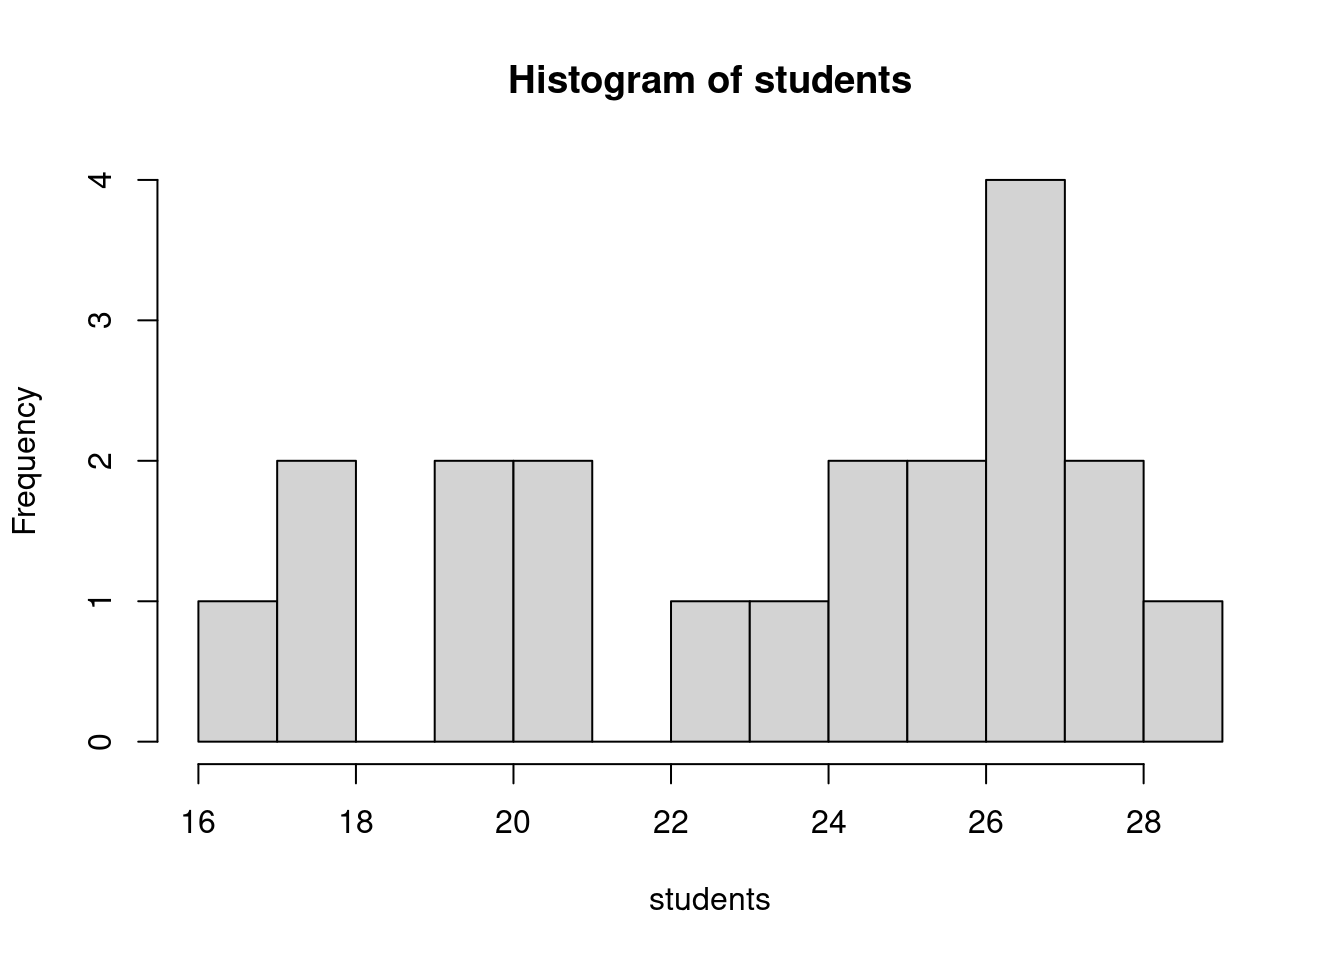
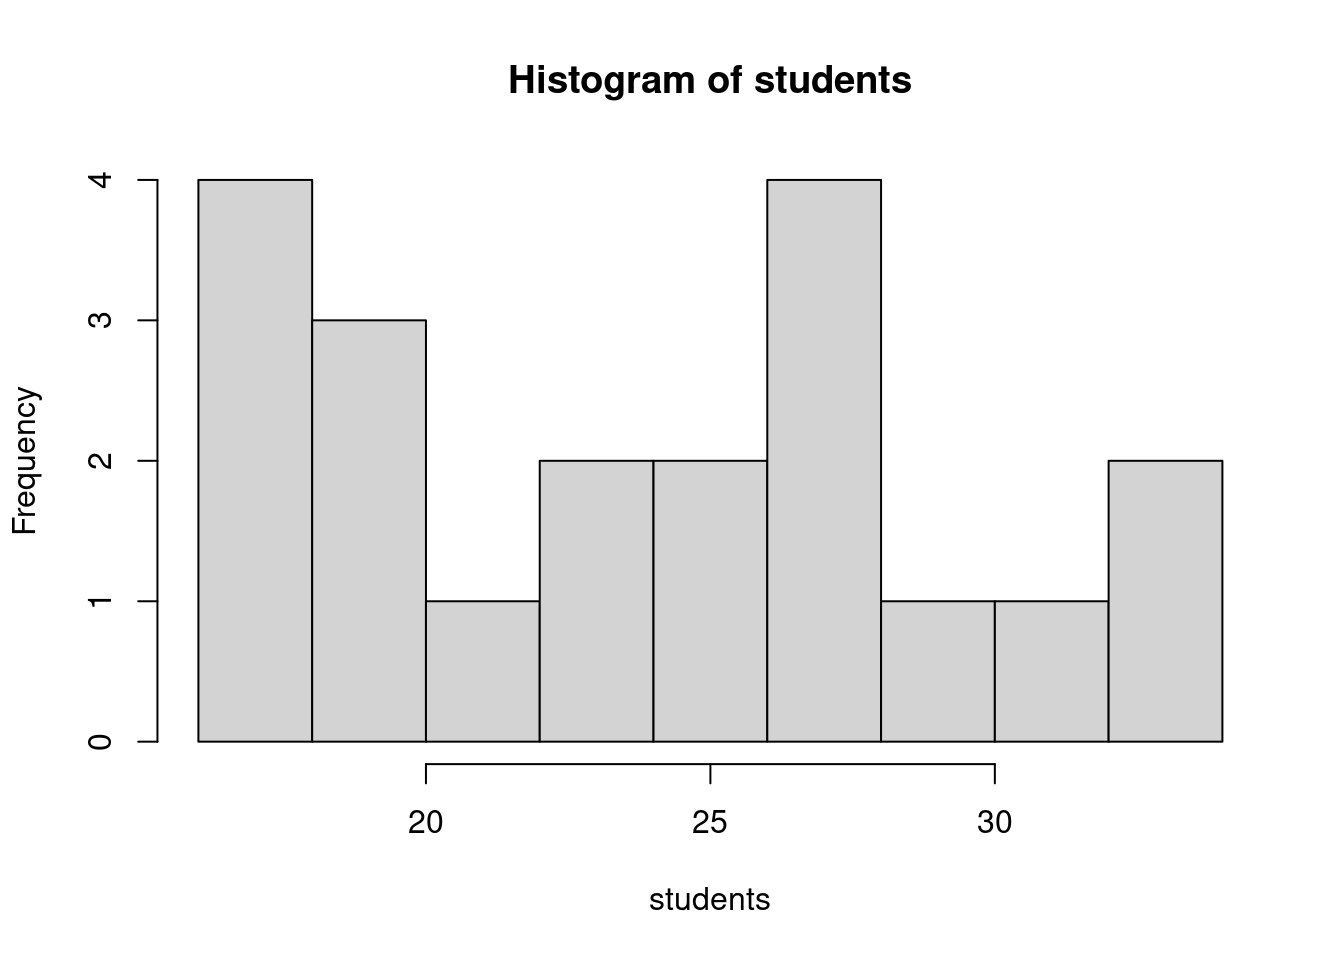
Updated with credit for images

diff --git a/_book/what-is-statistics.html b/_book/what-is-statistics.html
@@ -281,7 +281,7 @@ While I am collecting this data you can reflect on this funny musing. I grew up 
 <span id="cb3-5"><a href="what-is-statistics.html#cb3-5" aria-hidden="true" tabindex="-1"></a><span class="co"># students &lt;- {} </span></span>
 <span id="cb3-6"><a href="what-is-statistics.html#cb3-6" aria-hidden="true" tabindex="-1"></a></span>
 <span id="cb3-7"><a href="what-is-statistics.html#cb3-7" aria-hidden="true" tabindex="-1"></a>students</span></code></pre></div>
-<pre><code>##  [1] 18 25 20 21 24 23 21 28 27 25 28 16 27 26 20 27 26 18 29 27</code></pre>
+<pre><code>##  [1] 21 27 24 25 29 32 17 23 28 26 18 20 33 27 20 20 16 33 28 16</code></pre>
 <p><em>R Notes</em>: lists in R are enclosed in <em>curly braces</em> and each member of the list is separated by a <em>semi-colon</em> or a space; note I think leaving the space is bad practice and recommend not using that feature. In this case our list is a collection of integers. Lists can more generally be numbers or strings or even lists of lists.</p>
 <p>Comments in commands start with <em>hash symbols</em>.</p>
 <p>Another syntax note: R uses both = and &lt;- for assignment though they have slightly different meanings. They both work as you would expect, however &lt;- has some nice positives in the detailed differences and it is worth getting into the habit of using it.</p>
@@ -291,11 +291,11 @@ While I am collecting this data you can reflect on this funny musing. I grew up 
 <p>To get started we can use <em>summary</em> to get an overview of what our list of student enrollments look like. Review the meaning of each of these.</p>
 <div class="sourceCode" id="cb5"><pre class="sourceCode r"><code class="sourceCode r"><span id="cb5-1"><a href="what-is-statistics.html#cb5-1" aria-hidden="true" tabindex="-1"></a><span class="fu">summary</span>(students)</span></code></pre></div>
 <pre><code>##    Min. 1st Qu.  Median    Mean 3rd Qu.    Max. 
-##   16.00   20.75   25.00   23.80   27.00   29.00</code></pre>
+##   16.00   20.00   24.50   24.15   28.00   33.00</code></pre>
 <p>Mean and Median are <em>measures of center</em>, while the quartiles are <em>measures of spread</em>. One measure of spread missing is the variance or its square root standard deviation:</p>
 <div class="sourceCode" id="cb7"><pre class="sourceCode r"><code class="sourceCode r"><span id="cb7-1"><a href="what-is-statistics.html#cb7-1" aria-hidden="true" tabindex="-1"></a><span class="fu">var</span>(students); <span class="fu">sqrt</span>(<span class="fu">var</span>(students))</span></code></pre></div>
-<pre><code>## [1] 15.22105</code></pre>
-<pre><code>## [1] 3.901417</code></pre>
+<pre><code>## [1] 30.34474</code></pre>
+<pre><code>## [1] 5.508606</code></pre>
 <p>The variance is computed by taking the sum of the square differences between the data and the mean and then dividing that by number of items minus one; we will explain why this is what we divide by later in class:
 <span class="math display">\[ S = \frac{1}{n-1} \sum_{j=1}^n (y_j - \bar{y} )^2 \]</span> where <span class="math inline">\(\bar{y}\)</span> is the mean of the sample made up of the <span class="math inline">\(\{ y_1, y_2, \dots, y_n \}\)</span>.</p>
 <p>In the code blocks below I will add some comments about what we are doing:</p>
@@ -305,16 +305,17 @@ While I am collecting this data you can reflect on this funny musing. I grew up 
 <span id="cb10-4"><a href="what-is-statistics.html#cb10-4" aria-hidden="true" tabindex="-1"></a></span>
 <span id="cb10-5"><a href="what-is-statistics.html#cb10-5" aria-hidden="true" tabindex="-1"></a><span class="co"># R can then do the arithmetic and when we combine a list of numbers with a single number and square it, it knows what we mean.</span></span>
 <span id="cb10-6"><a href="what-is-statistics.html#cb10-6" aria-hidden="true" tabindex="-1"></a>(students <span class="sc">-</span> ybar)<span class="sc">^</span><span class="dv">2</span></span></code></pre></div>
-<pre><code>##  [1] 33.64  1.44 14.44  7.84  0.04  0.64  7.84 17.64 10.24  1.44 17.64 60.84
-## [13] 10.24  4.84 14.44 10.24  4.84 33.64 27.04 10.24</code></pre>
+<pre><code>##  [1]  9.9225  8.1225  0.0225  0.7225 23.5225 61.6225 51.1225  1.3225 14.8225
+## [10]  3.4225 37.8225 17.2225 78.3225  8.1225 17.2225 17.2225 66.4225 78.3225
+## [19] 14.8225 66.4225</code></pre>
 <div class="sourceCode" id="cb12"><pre class="sourceCode r"><code class="sourceCode r"><span id="cb12-1"><a href="what-is-statistics.html#cb12-1" aria-hidden="true" tabindex="-1"></a><span class="co"># Then as we said, we sum over all of these and then divide by the number of them</span></span>
 <span id="cb12-2"><a href="what-is-statistics.html#cb12-2" aria-hidden="true" tabindex="-1"></a><span class="co"># minus 1</span></span>
 <span id="cb12-3"><a href="what-is-statistics.html#cb12-3" aria-hidden="true" tabindex="-1"></a></span>
 <span id="cb12-4"><a href="what-is-statistics.html#cb12-4" aria-hidden="true" tabindex="-1"></a><span class="fu">sum</span>( (students <span class="sc">-</span> ybar)<span class="sc">^</span><span class="dv">2</span> ) <span class="sc">/</span> ( <span class="fu">length</span>(students) <span class="sc">-</span> <span class="dv">1</span> )</span></code></pre></div>
-<pre><code>## [1] 15.22105</code></pre>
+<pre><code>## [1] 30.34474</code></pre>
 <p>Note why we compute variance in this way. We are trying to understand how far the data moves from the mean <span class="math inline">\(\bar{y}\)</span>. However we can’t just sum over the differences as that will just add up to zero:</p>
 <div class="sourceCode" id="cb14"><pre class="sourceCode r"><code class="sourceCode r"><span id="cb14-1"><a href="what-is-statistics.html#cb14-1" aria-hidden="true" tabindex="-1"></a><span class="fu">sum</span>(students <span class="sc">-</span> ybar )</span></code></pre></div>
-<pre><code>## [1] -1.421085e-14</code></pre>
+<pre><code>## [1] 2.842171e-14</code></pre>
 <p>We have choices though, we could sum over the absolute value and indeed that does give us a notion of spread. However the advantage of summing over the squares is that it brings in tools from Calculus that work with quadratic expressions but not with absolute value expressions. We then intend to take an average. For reasons we will justify later, it turns out the correct average to do is to divide by the size of our sample minus 1: <span class="math inline">\(n-1\)</span> is called the degrees of freedom (roughly computing <span class="math inline">\(\bar{y}\)</span> from the sample has used up one degree of freedom).</p>
 <p>Note the units on these two statistics: the variance is the average of the sum of the squares (by the number of degrees of freedom) so its units are the square of the units of our sample data (<em>students squared</em> in this case); and then the standard deviation is the square root of the variance and so has units of the original data (<em>students</em> in this case).</p>
 </div>
@@ -564,6 +565,7 @@ above the linear trend. To explore this, we can add more variables to a scatter 
 </div>
 <div id="detecting-fraud-in-thc-labs" class="section level3" number="3.6.10">
 <h3><span class="header-section-number">3.6.10</span> Detecting Fraud in THC Labs</h3>
+<p>This problem comes from the article: <a href="https://jcannabisresearch.biomedcentral.com/articles/10.1186/s42238-021-00064-2" class="uri">https://jcannabisresearch.biomedcentral.com/articles/10.1186/s42238-021-00064-2</a> about cannabis testing labs in Washington state. There have been some high profile cases of labs in CA, NV, and CO as well as Canada being fine or suspended for falsifying data or for retailers or producers shopping for labs.</p>
 <p>Something suspicious is happening at some labs in Washington state that test for THC concentrations in consumer sold marajuana. The distribution of concentrations appear to be normal except that there is a discontinuity in the distribution at 20% with a higher density of results just above 20% than just below 20%. Here is the histogram that was found:</p>
 <p><img src="Labs.png" alt="Histogram of THC Concentrations in suspended Washington Labs" width="300"/></p>
 <p>Whereas here is a distribution of test results from the largest lab in the sate:</p>
